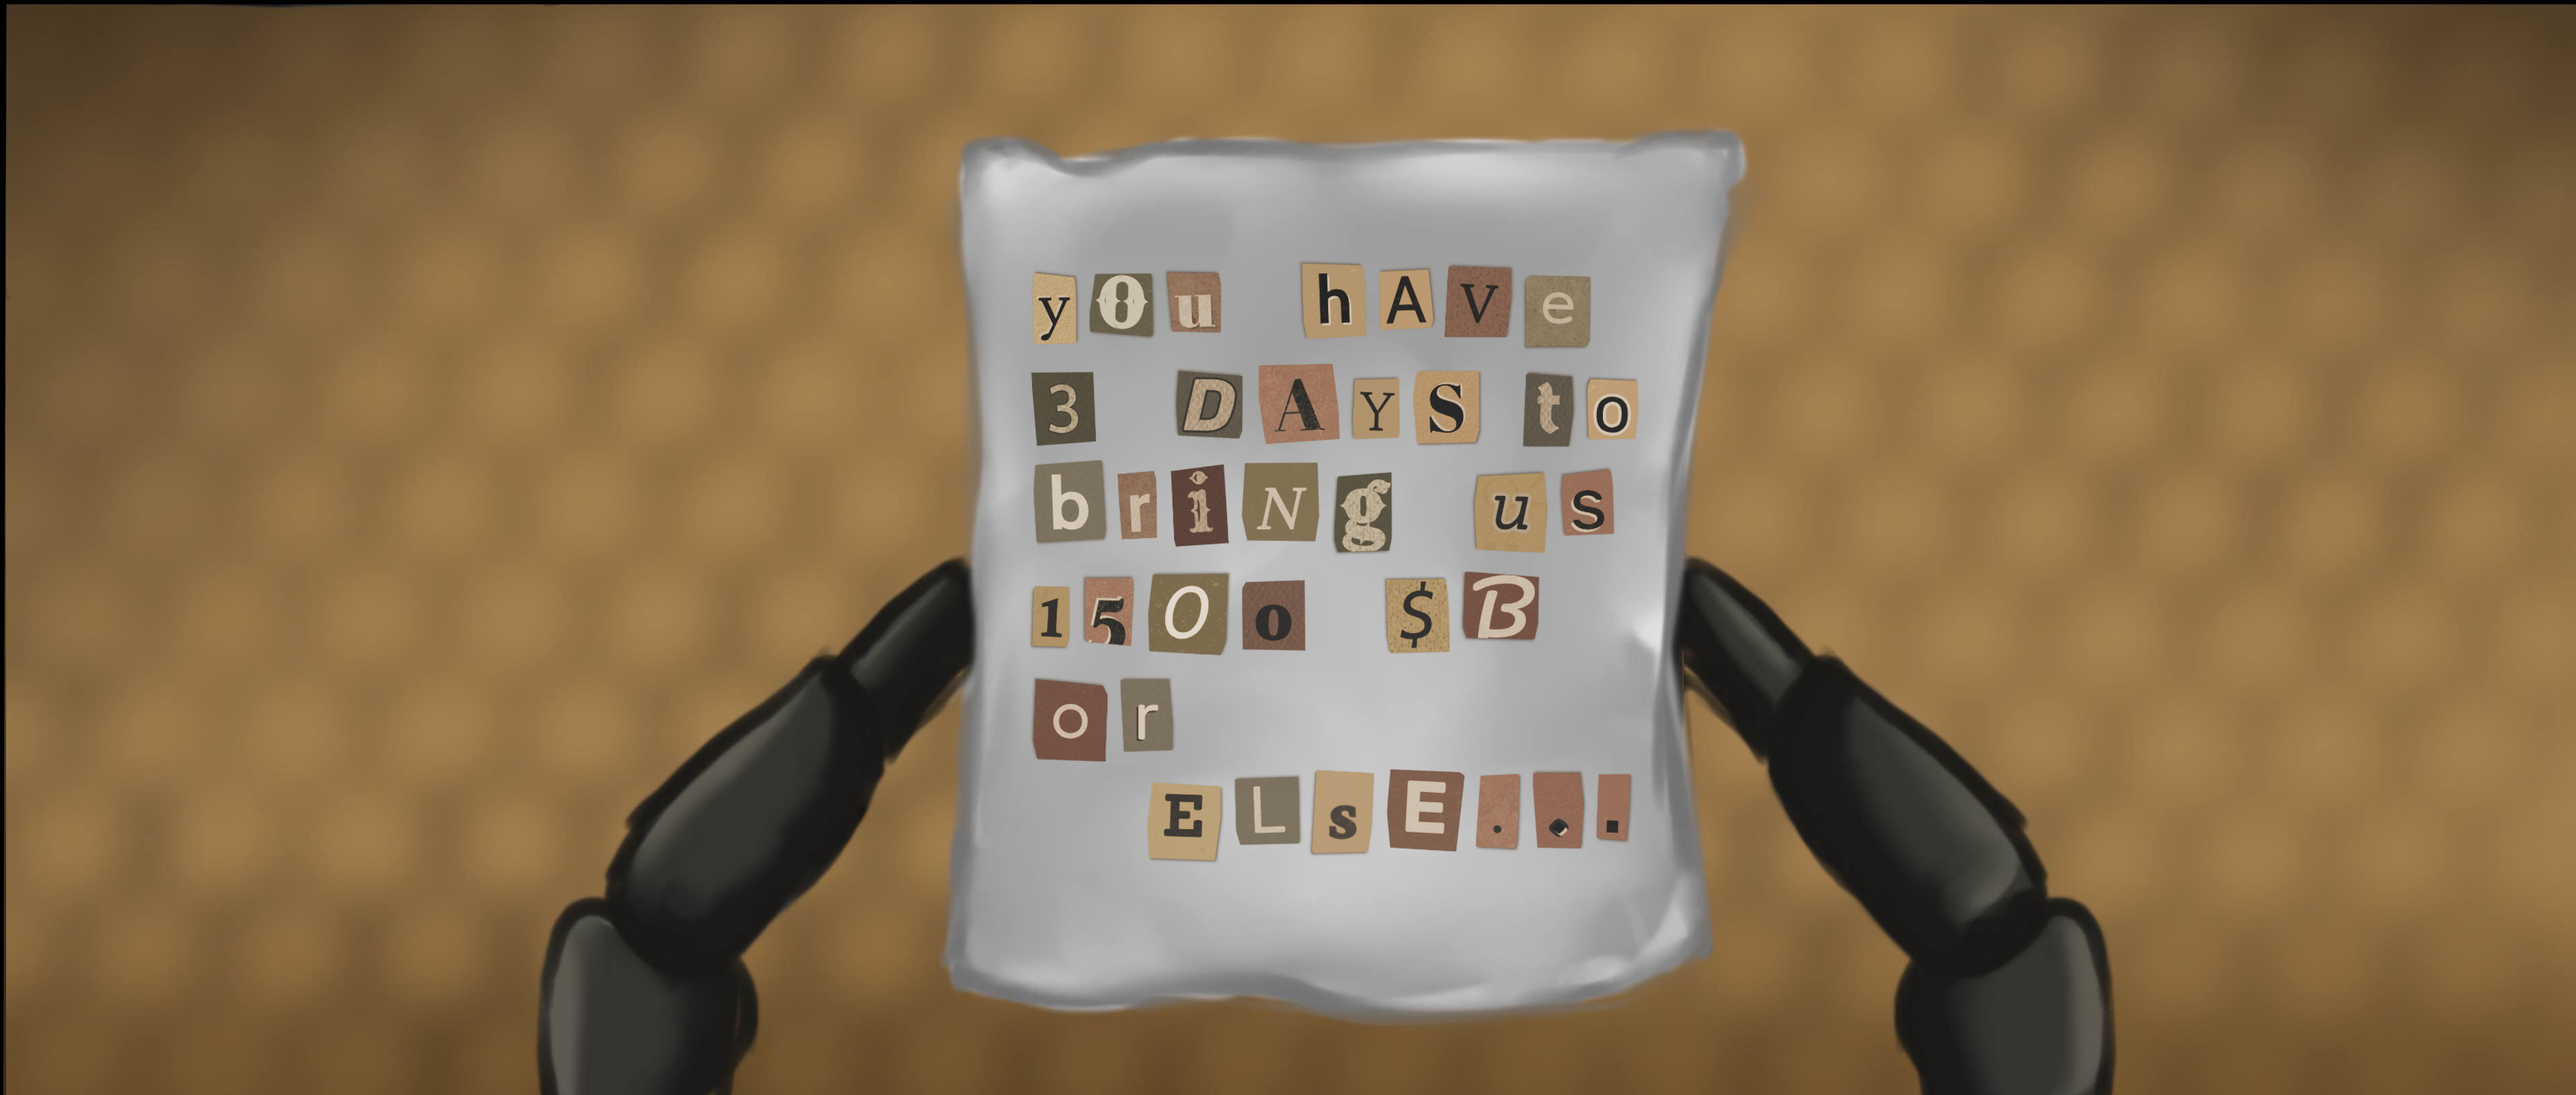
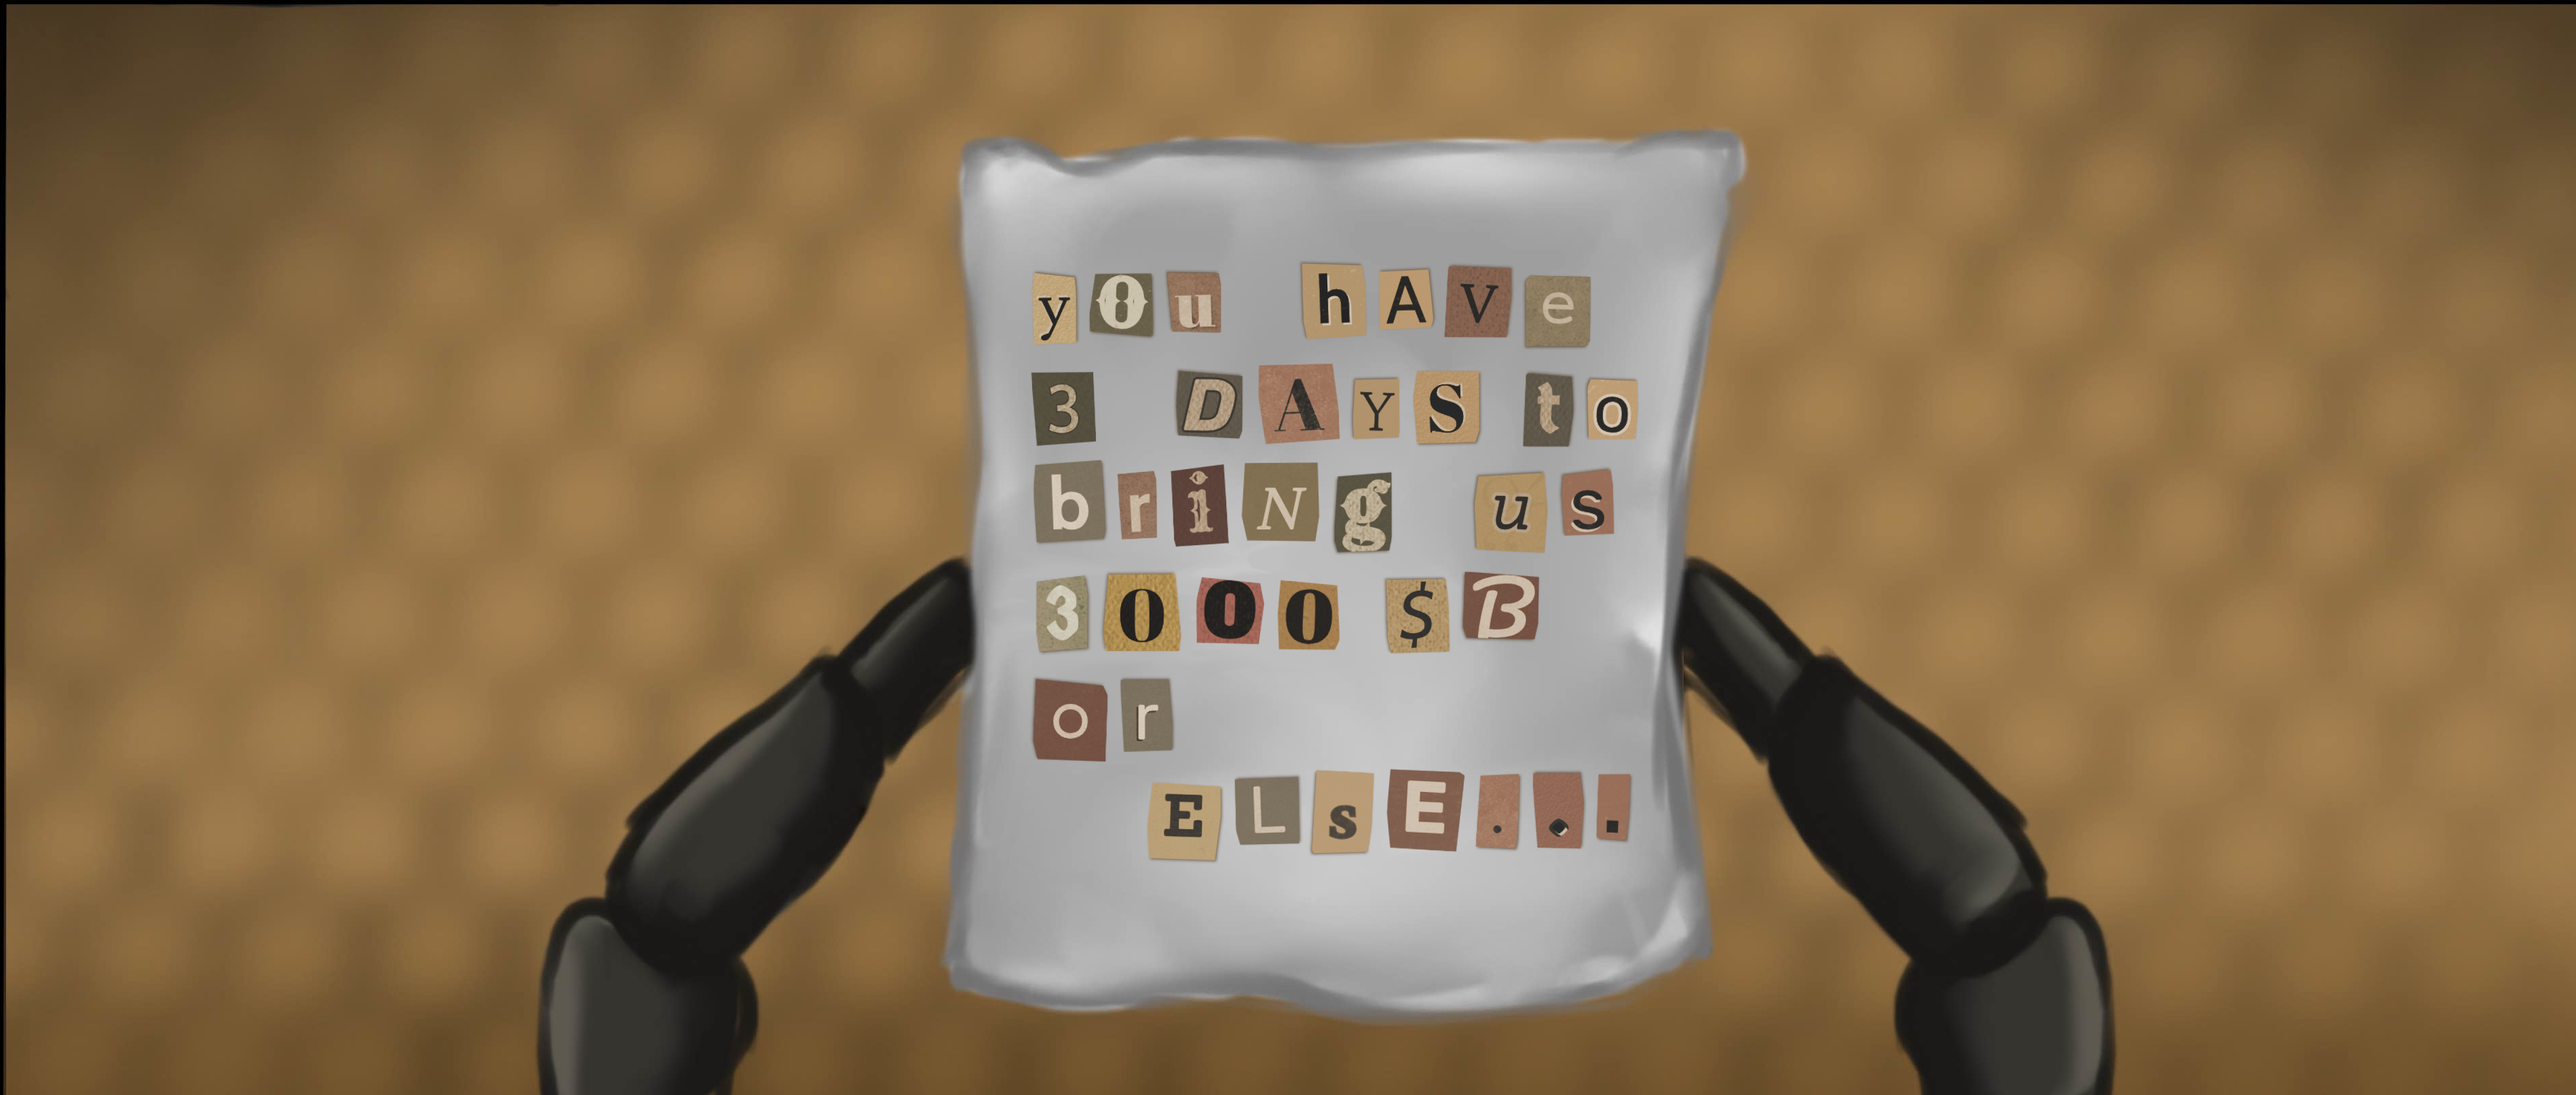
Build changes

Changed region(s): [[0.4041, 0.4954, 0.5285, 0.6192]]

diff --git a/Assets/Printer3DScript.cs b/Assets/Printer3DScript.cs
@@ -1,8 +1,5 @@
-using System.Collections;
 using TMPro;
 using UnityEngine;
-using static UnityEditor.Progress;
-using static UnityEngine.Rendering.DebugUI;
 
 public class Printer3DScript : InteractableObject
 {
